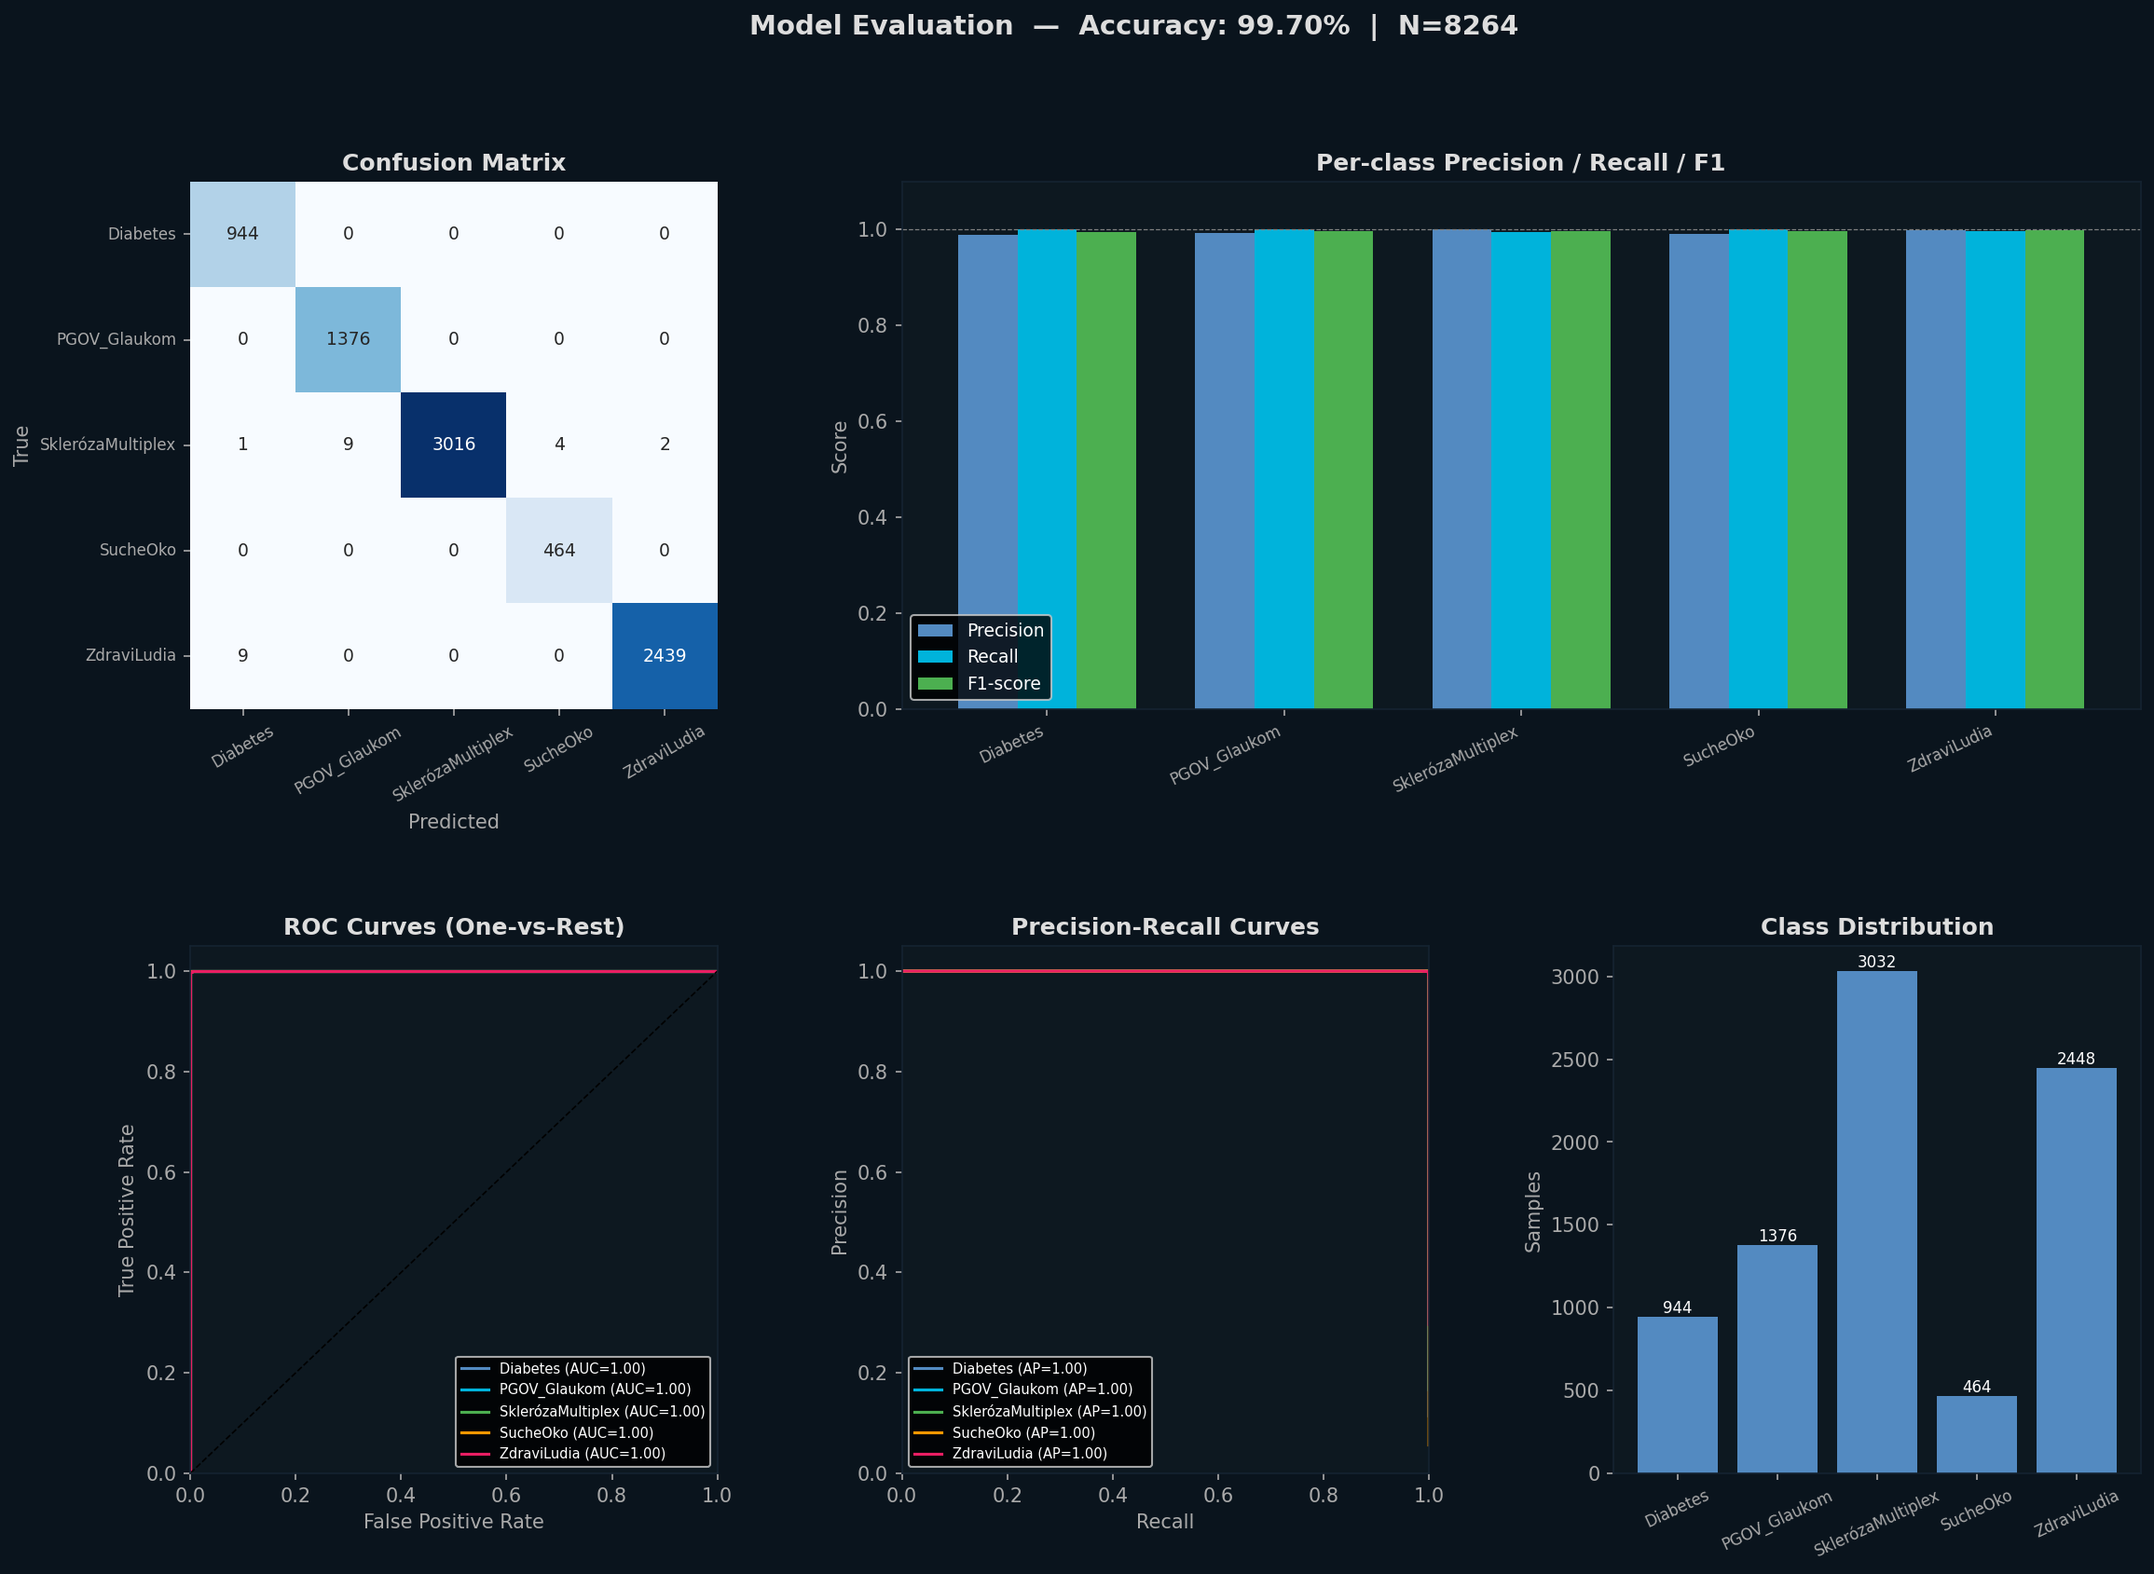
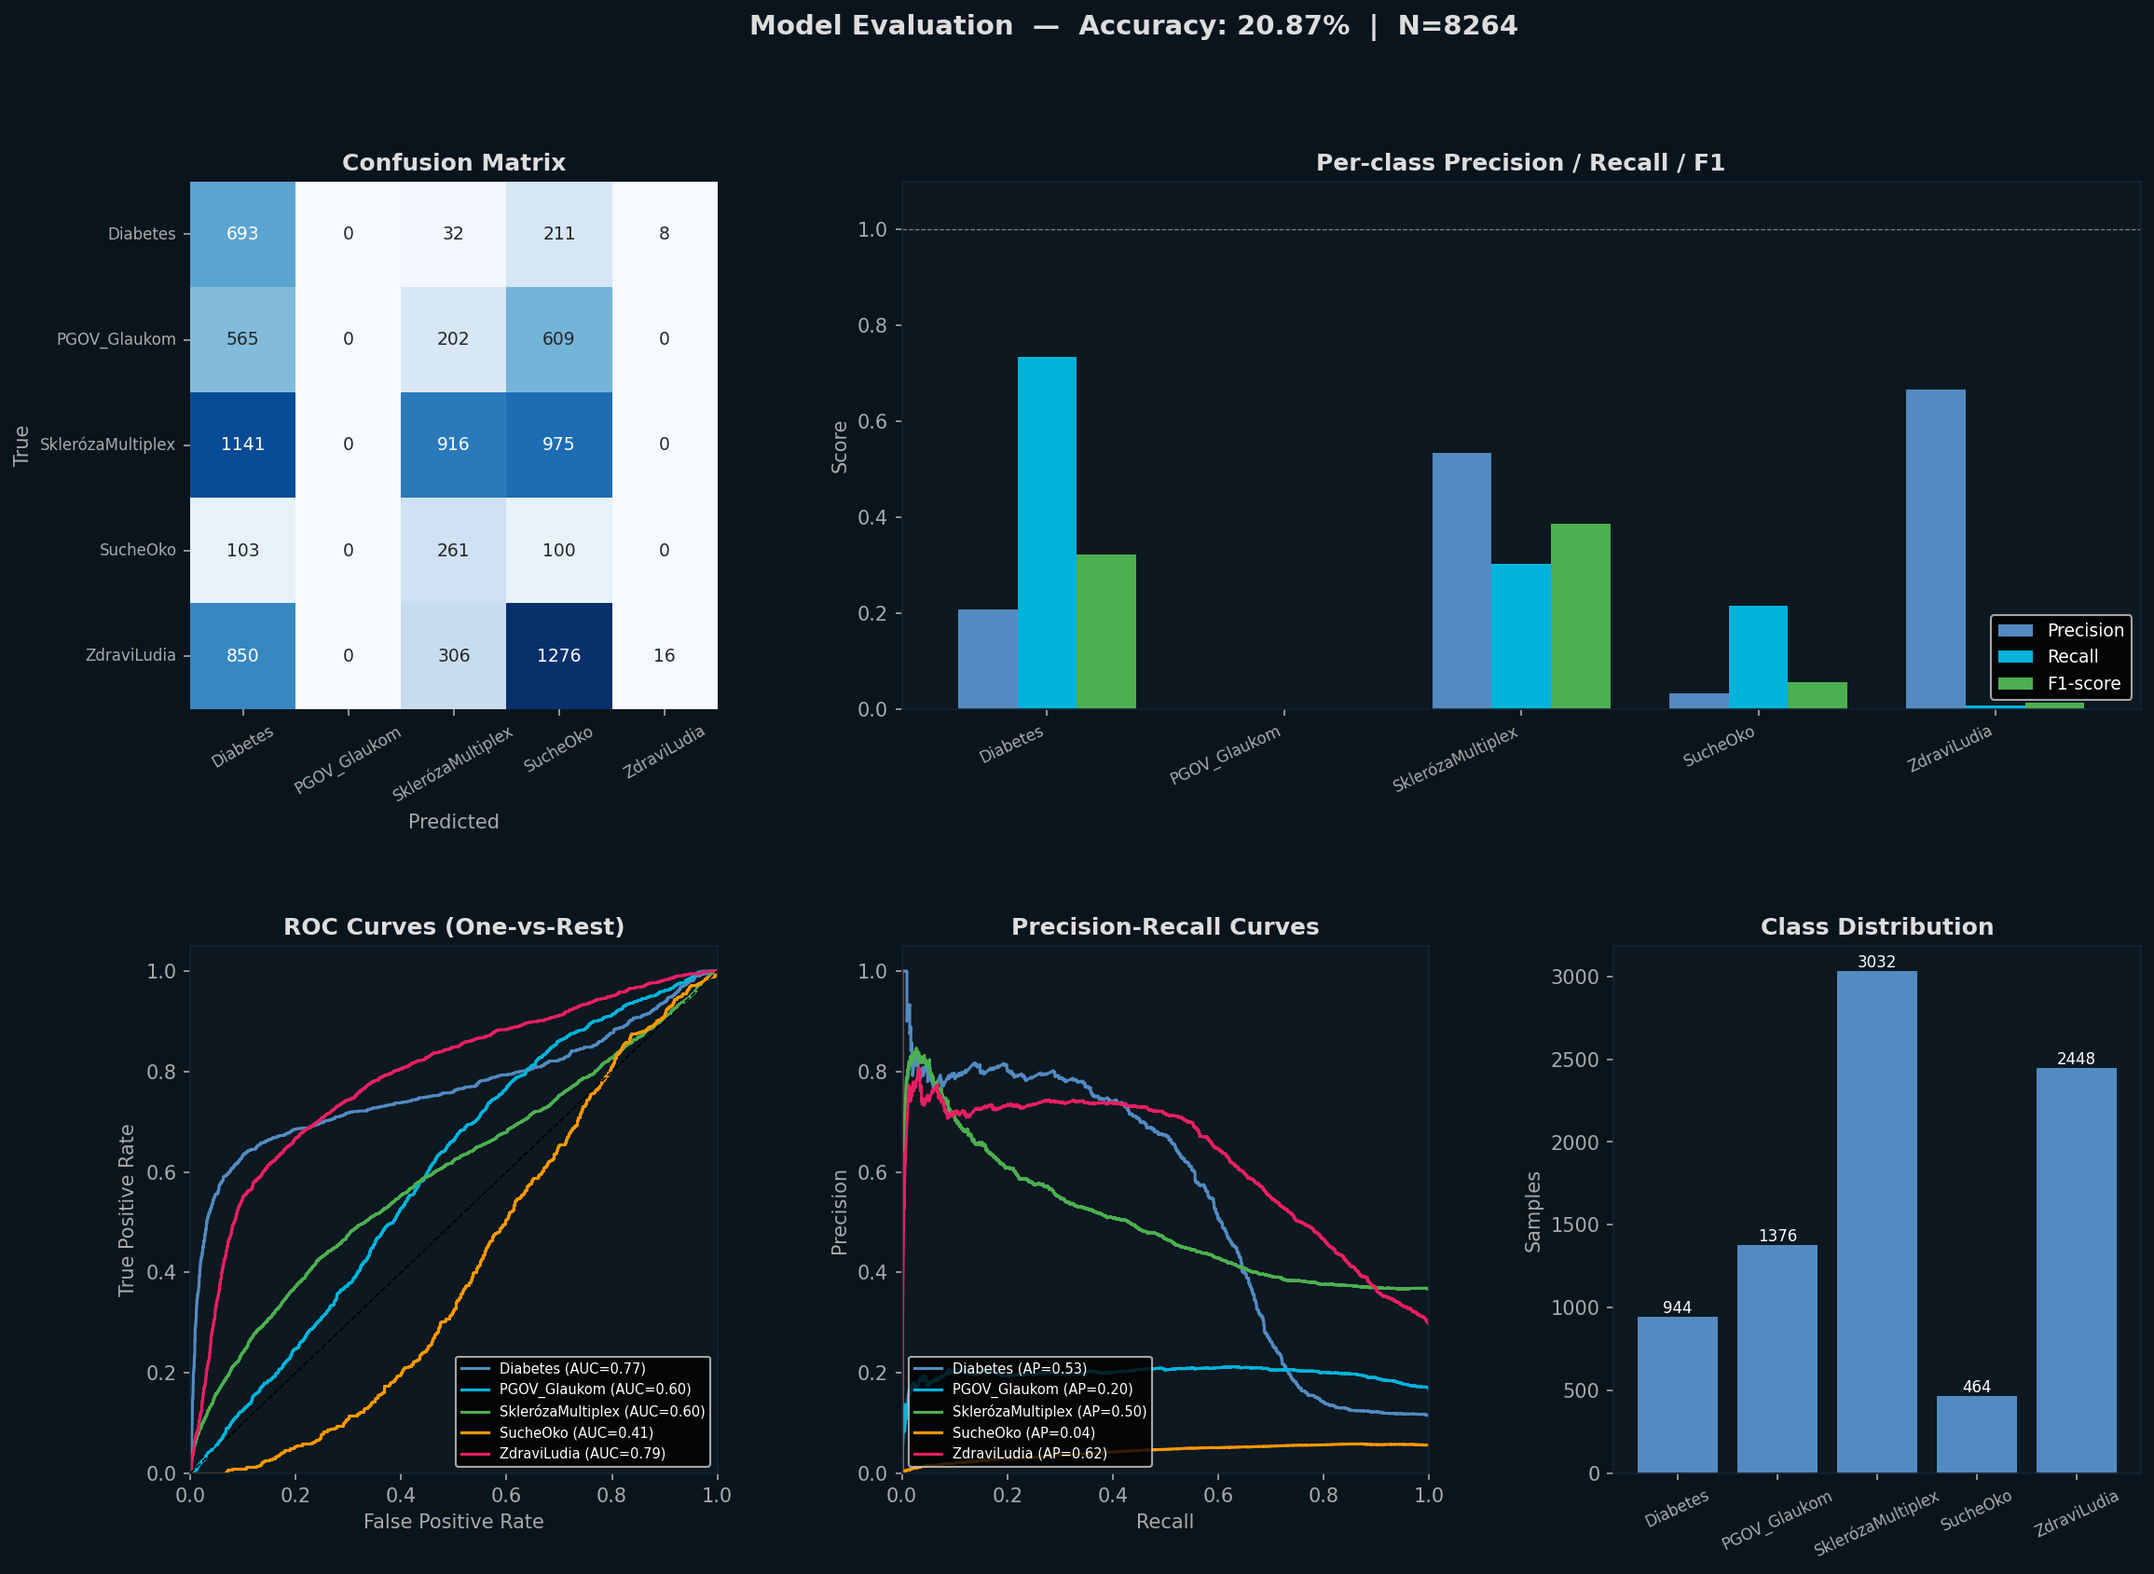
APP: WORKING ALL MODELS, OVERFITED MODEL WITH RANDOM FOREST.

diff --git a/app/src/ui/widgets/metrics_panel.py b/app/src/ui/widgets/metrics_panel.py
@@ -1,76 +1,196 @@
 from matplotlib.backends.backend_qtagg import FigureCanvasQTAgg as FigureCanvas
 from matplotlib.figure import Figure
-from PyQt6.QtWidgets import QLabel, QVBoxLayout, QWidget
 from matplotlib.ticker import FuncFormatter
+from PyQt6.QtWidgets import QHBoxLayout, QLabel, QPushButton, QVBoxLayout, QWidget
+
+_MODEL_COLORS = ["#538AC1", "#00B3DB", "#E8A838"]
+
+_BTN_ACTIVE = (
+    "background-color: #538AC1; color: #fff; border: 1px solid #538AC1;"
+    " border-radius: 4px; padding: 3px 12px; font-size: 11px;"
+    " font-family: 'Open Sans', sans-serif;"
+)
+_BTN_INACTIVE = (
+    "background-color: #0d1820; color: #538AC1; border: 1px solid #538AC1;"
+    " border-radius: 4px; padding: 3px 12px; font-size: 11px;"
+    " font-family: 'Open Sans', sans-serif;"
+)
+
 
 class MetricsPanel(QWidget):
     def __init__(self, parent=None):
         super().__init__(parent)
+        self._metrics = None
+        self._view = "single"  # "single" | "all"
         self._build_ui()
 
     def _build_ui(self):
         layout = QVBoxLayout(self)
 
+        # Header row: title + toggle buttons
+        header = QHBoxLayout()
         title = QLabel("Probabilities")
         title.setStyleSheet("font-size: 16px; font-weight: bold; color: #ddd; font-family: 'Open Sans', sans-serif;")
-        layout.addWidget(title)
+        header.addWidget(title)
+        header.addStretch()
+
+        self._btn_single = QPushButton("Results")
+        self._btn_all = QPushButton("Models probabilities")
+        self._btn_single.setFixedHeight(26)
+        self._btn_all.setFixedHeight(26)
+        self._btn_single.clicked.connect(lambda: self._switch_view("single"))
+        self._btn_all.clicked.connect(lambda: self._switch_view("all"))
+        header.addWidget(self._btn_single)
+        header.addWidget(self._btn_all)
+        layout.addLayout(header)
 
         self._figure = Figure(facecolor="#0a141d", tight_layout=True)
         self._canvas = FigureCanvas(self._figure)
-        self._canvas.setMinimumHeight(200)
+        self._canvas.setMinimumHeight(240)
         layout.addWidget(self._canvas)
+
+        # Coloured model-name pills shown only in "all models" view
+        self._legend_row = QHBoxLayout()
+        self._legend_row.setSpacing(14)
+        self._legend_widgets: list[QLabel] = []
+        layout.addLayout(self._legend_row)
 
         self._summary_label = QLabel("")
         self._summary_label.setStyleSheet("font-size: 12px; color: #538AC1; font-family: 'Open Sans', sans-serif;")
         layout.addWidget(self._summary_label)
 
+        self._refresh_btn_styles()
+
+    def _switch_view(self, view: str):
+        self._view = view
+        self._refresh_btn_styles()
+        if self._metrics is not None:
+            self.update_metrics(self._metrics)
+
+    def _refresh_btn_styles(self):
+        self._btn_single.setStyleSheet(_BTN_ACTIVE if self._view == "single" else _BTN_INACTIVE)
+        self._btn_all.setStyleSheet(_BTN_ACTIVE if self._view == "all" else _BTN_INACTIVE)
+
     def update_metrics(self, metrics):
-        probs = getattr(metrics, "Probabilities", None) or getattr(metrics, "probabilities", []) or []
+        self._metrics = metrics
+
+        all_probs = getattr(metrics, "AllProbabilities", None) or []
+        model_names = list(getattr(metrics, "ModelNames", None) or [])
         labels = list(getattr(metrics, "labels", []))
 
-        if not probs or not labels:
+        # Fallback for history records that only carry a single model
+        if not all_probs:
+            probs = getattr(metrics, "Probabilities", None) or []
+            if probs:
+                all_probs = [probs]
+                model_names = ["Model"]
+
+        if not all_probs or not labels:
             self._figure.clear()
             self._canvas.draw()
             self._summary_label.setText("No data")
             return
 
-        # Ensure consistent length
-        n = min(len(probs), len(labels))
-        probs = probs[:n]
-        labels = labels[:n]
+        if self._view == "single":
+            self._draw_single(all_probs[0], labels, model_names[0] if model_names else "Primary model")
+        else:
+            self._draw_all(all_probs, model_names, labels)
 
-        values = [p / 100 for p in probs]
+    def _set_legend(self, model_names: list[str]):
+        for w in self._legend_widgets:
+            self._legend_row.removeWidget(w)
+            w.deleteLater()
+        self._legend_widgets.clear()
+        for name, color in zip(model_names, _MODEL_COLORS):
+            lbl = QLabel(f"● {name}")
+            lbl.setStyleSheet(
+                f"font-size: 10px; color: {color}; font-family: 'Open Sans', sans-serif;"
+            )
+            self._legend_row.addWidget(lbl)
+            self._legend_widgets.append(lbl)
+        # push items left
+        if self._legend_widgets:
+            self._legend_row.addStretch()
+
+    def _clear_legend(self):
+        for w in self._legend_widgets:
+            self._legend_row.removeWidget(w)
+            w.deleteLater()
+        self._legend_widgets.clear()
+
+    def _draw_single(self, probs: list[float], labels: list[str], model_name: str):
+        self._clear_legend()
+        self._canvas.setMinimumHeight(240)
+        self._canvas.setMaximumHeight(16777215)
+
+        n = min(len(probs), len(labels))
+        values = [probs[i] / 100 for i in range(n)]
 
         self._figure.clear()
         ax = self._figure.add_subplot(111)
         ax.set_facecolor("#0d1820")
 
-        y_pos = range(n)
+        y_pos = list(range(n))
         ax.barh(y_pos, values, color="#538AC1")
-
         ax.set_yticks(y_pos)
-        ax.set_yticklabels(labels, color="#ddd", fontsize=9)
-
+        ax.set_yticklabels(labels[:n], color="#ddd", fontsize=9)
         ax.set_xlim(0, 1)
         ax.xaxis.set_major_formatter(FuncFormatter(lambda x, _: f"{int(x * 100)}%"))
-
         ax.tick_params(axis="x", colors="#538AC1", labelsize=9)
         ax.tick_params(axis="y", colors="#ddd", labelsize=9)
+        for spine in ax.spines.values():
+            spine.set_edgecolor("#152331")
+        for i, (val, prob) in enumerate(zip(values, probs)):
+            ax.text(min(val + 0.01, 0.98), i, f"{prob:.1f}%", va="center", color="#00B3DB", fontsize=9)
 
+        self._canvas.draw()
+        best = max(range(n), key=lambda i: probs[i])
+        self._summary_label.setText(f"Prediction ({model_name}): {labels[best]}")
+
+    def _draw_all(self, all_probs: list[list[float]], model_names: list[str], labels: list[str]):
+        self._set_legend(model_names)
+        self._canvas.setMinimumHeight(240)
+        self._canvas.setMaximumHeight(16777215)
+
+        n_models = len(all_probs)
+        n_classes = min(len(labels), min(len(p) for p in all_probs))
+
+        bar_h = 0.22
+        group_gap = 0.12
+        group_size = n_models * bar_h + group_gap
+        y_centers = [i * group_size + (n_models * bar_h) / 2 for i in range(n_classes)]
+
+        self._figure.clear()
+        ax = self._figure.add_subplot(111)
+        ax.set_facecolor("#0d1820")
+
+        for mi, (model_probs, name) in enumerate(zip(all_probs, model_names)):
+            color = _MODEL_COLORS[mi % len(_MODEL_COLORS)]
+            offset = (mi - (n_models - 1) / 2) * bar_h
+            y_pos = [yc + offset for yc in y_centers]
+            values = [model_probs[ci] / 100 for ci in range(n_classes)]
+            ax.barh(y_pos, values, height=bar_h * 0.88, color=color, label=name, alpha=0.88)
+            for ci, (val, yp) in enumerate(zip(values, y_pos)):
+                if val > 0.01:
+                    ax.text(min(val + 0.008, 1.08), yp, f"{model_probs[ci]:.1f}%",
+                            va="center", color=color, fontsize=7)
+
+        ax.set_yticks(y_centers)
+        ax.set_yticklabels(labels[:n_classes], color="#ddd", fontsize=8.5)
+        ax.set_xlim(0, 1.18)
+        ax.xaxis.set_major_formatter(FuncFormatter(lambda x, _: f"{int(x * 100)}%"))
+        ax.tick_params(axis="x", colors="#538AC1", labelsize=8)
+        ax.tick_params(axis="y", colors="#ddd", labelsize=8.5)
         for spine in ax.spines.values():
             spine.set_edgecolor("#152331")
 
-        # Clamp text position so it doesn't overflow
-        for i, (val, prob) in enumerate(zip(values, probs)):
-            x_pos = min(val + 0.01, 0.98)
-            ax.text(x_pos, i, f"{prob}%", va="center", color="#00B3DB", fontsize=9)
-
         self._canvas.draw()
+        best = max(range(n_classes), key=lambda i: all_probs[0][i])
+        self._summary_label.setText(f"Prediction: {labels[best]}")
 
-        # Use same sliced labels
-        best_idx = max(range(n), key=lambda i: probs[i])
-        self._summary_label.setText(f"Prediction: {labels[best_idx]}")
     def clear(self):
+        self._metrics = None
+        self._clear_legend()
         self._figure.clear()
         self._canvas.draw()
         self._summary_label.setText("")

diff --git a/app/src/processing/model.py b/app/src/processing/model.py
@@ -1,6 +1,7 @@
 import os
 import importlib.util
 import numpy as np
+import cv2
 import torch
 import torch.nn as nn
 from torchvision import models, transforms
@@ -17,9 +18,20 @@ _nn_mod = importlib.util.module_from_spec(_spec)
 _spec.loader.exec_module(_nn_mod)
 ResNetInference = _nn_mod.ResNetInference
 
+_CL_INFERENCE_PATH = os.path.normpath(
+    os.path.join(os.path.dirname(__file__), "..", "..", "..", "src", "models", "cl_inference.py")
+)
+_cl_spec = importlib.util.spec_from_file_location("oezys_cl_inference", _CL_INFERENCE_PATH)
+_cl_mod = importlib.util.module_from_spec(_cl_spec)
+_cl_spec.loader.exec_module(_cl_mod)
+TearClassifier = _cl_mod.TearClassifier
+
 NUM_CLASSES = 5
 _MODEL_PATH = os.path.join(os.path.dirname(__file__), "classifier_best.pth")
 _DANIEL_MODEL_PATH = os.path.join(os.path.dirname(__file__), "run32best-checkpoint-epoch=36-val_acc=0.85.ckpt")
+_TEAR_MODEL_PATH = os.path.normpath(
+    os.path.join(os.path.dirname(__file__), "..", "..", "..", "src", "models", "config", "cl_models", "tear_classifier.pkl")
+)
 
 _VAL_TF = transforms.Compose([
     transforms.Resize((224, 224)),
@@ -53,11 +65,13 @@ class ModelData:
 
 
 class Model:
-    def __init__(self, model_path: str | None = None, daniel_model_path: str | None = None):
+    def __init__(self, model_path: str | None = None, daniel_model_path: str | None = None, tear_model_path: str | None = None):
         self._model_path = model_path or _MODEL_PATH
         self._daniel_model_path = daniel_model_path or _DANIEL_MODEL_PATH
+        self._tear_model_path = tear_model_path or _TEAR_MODEL_PATH
         self._model: nn.Module | None = None
         self._daniel_model: ResNetInference | None = None
+        self._tear_model: TearClassifier | None = None
         self._device = torch.device("cuda" if torch.cuda.is_available() else "cpu")
 
     def _ensure_loaded(self):
@@ -74,9 +88,15 @@ class Model:
             return
         self._daniel_model = ResNetInference(self._daniel_model_path)
 
+    def _ensure_tear_loaded(self):
+        if self._tear_model is not None:
+            return
+        self._tear_model = TearClassifier(self._tear_model_path)
+
     def run(self, preprocessed: PreprocessorData) -> list[ModelData]:
         self._ensure_loaded()
         self._ensure_daniel_loaded()
+        self._ensure_tear_loaded()
 
         arr = preprocessed.image  # float32 H×W×3, per-channel [0,1]
         arr_u8 = (arr * 255).clip(0, 255).astype(np.uint8)
@@ -89,16 +109,29 @@ class Model:
 
         probs_2 = self._daniel_model.run_array(arr_u8)
 
+        gray = cv2.cvtColor(arr_u8, cv2.COLOR_RGB2GRAY)
+        gray = cv2.resize(gray, (512, 512), interpolation=cv2.INTER_AREA)
+        feats = {}
+        feats.update(self._tear_model.extract_glcm_features(gray))
+        feats.update(self._tear_model.extract_fft_features(gray))
+        feats.update(self._tear_model.extract_morphology_features(gray))
+        feats["fractal_dim"] = self._tear_model.get_fractal_dimension(gray)
+        feat_vec = [feats[n] for n in self._tear_model.feature_names]
+        probs_3 = self._tear_model.model.predict_proba(self._tear_model.scaler.transform([feat_vec]))[0].tolist()
+
         pred_1 = int(torch.tensor(probs).argmax())
         pred_2 = int(torch.tensor(probs_2).argmax())
+        pred_3 = int(np.argmax(probs_3))
 
         res = [
             ModelData(label=LABELS[pred_1], probabilities=probs),
             ModelData(label=LABELS[pred_2], probabilities=probs_2),
+            ModelData(label=LABELS[pred_3], probabilities=probs_3),
         ]
 
-        print(f"[Model] Predicted: {res[0].Label} with probabilities {res[0].Probabilities}")
+        print(f"[Model] Hlib model Predicted: {res[0].Label} with probabilities {res[0].Probabilities}")
         print(f"[Model] Daniel's model predicted: {res[1].Label} with probabilities {res[1].Probabilities}")
+        print(f"[Model] Honza classifier predicted: {res[2].Label} with probabilities {res[2].Probabilities}")
 
         return res
 

diff --git a/app/src/processing/metrics.py b/app/src/processing/metrics.py
@@ -6,6 +6,9 @@ from .model import ModelData
 from .preprocessing import PreprocessorData
 
 
+_MODEL_NAMES = ["RESNET + RF + FFT", "Neural Network(RESNET)", "Random Forest"]
+
+
 class MetricData:
     def __init__(self, datetime=None, filename=None, probabilities=None):
         self.Datetime = datetime
@@ -13,6 +16,8 @@ class MetricData:
         self.FilePath = None
         self.Probabilities = probabilities
         self.labels = ["Diabetes", "Primary Open-Angle Glaucoma", "Multiple Sclerosis", "Dry Eye Disease", "Healthy"]
+        self.AllProbabilities: list[list[float]] = []
+        self.ModelNames: list[str] = []
 
 
 class Metrics:
@@ -31,4 +36,10 @@ class Metrics:
             metrics.Probabilities = None
             return metrics
         metrics.Probabilities = [round(p * 100, 2) for p in predictions[0].Probabilities]
+        all_probs = []
+        for pred in predictions:
+            if pred.Probabilities:
+                all_probs.append([round(p * 100, 2) for p in pred.Probabilities])
+        metrics.AllProbabilities = all_probs
+        metrics.ModelNames = _MODEL_NAMES[:len(all_probs)]
         return metrics
